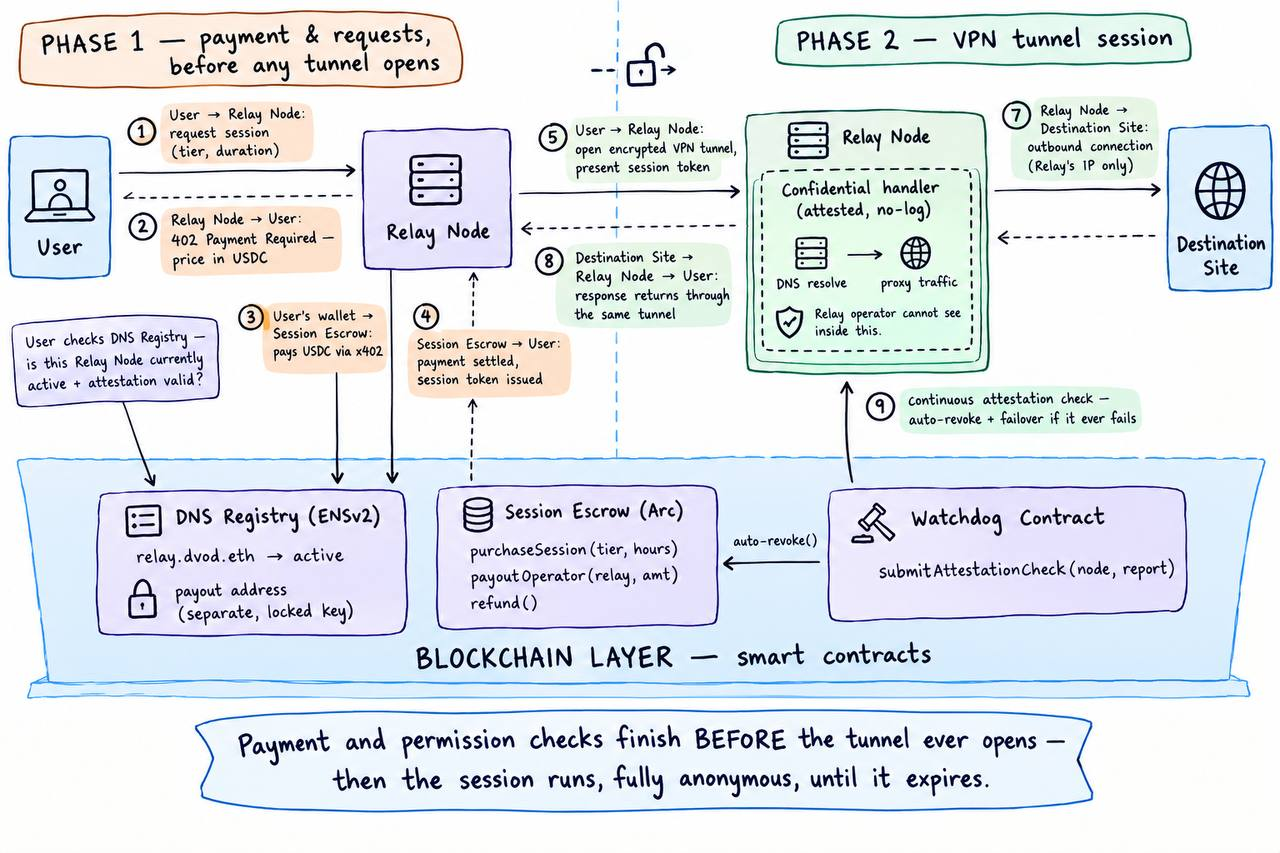
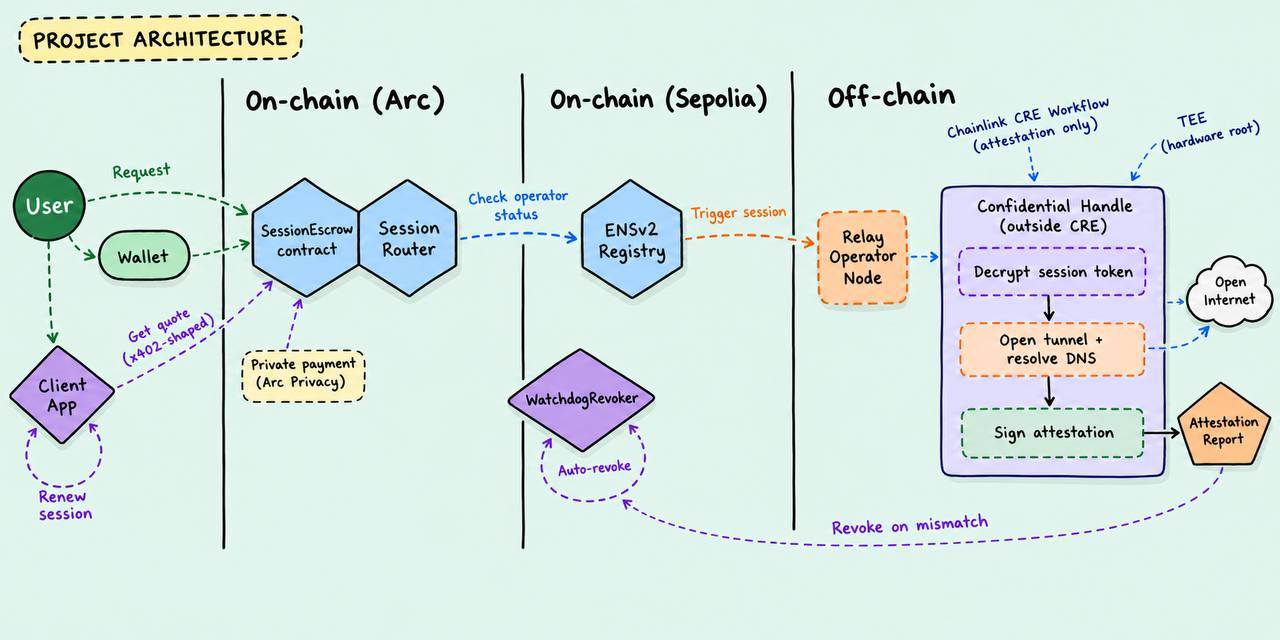
docs: swap in target-design diagram as primary architecture image, honesty pass on labels
- docs/architecture.jpg now shows the target/vision design (in-image "TARGET DESIGN -
  IN PROGRESS" badge, x402-shaped quote + planned private-payment annotations,
  confidential handler outside CRE)
- old real-architecture diagram renamed docs/architecture-2.jpg, kept as "Current
  implementation" section further down
- README: reworded headings so each image's caption matches what it actually shows
  (target vs. current), replaced "SIMULATED" badge language for tunnel-server with
  "runs standalone (outside CRE)", added "Coming next - private payments" section
- docs/chainlink-cre-findings.md: same SIMULATED-badge wording cleanup

Claude-Session: https://claude.ai/code/session_01ApFvDPM8JrR3ht8kJwvgdL

diff --git a/README.md b/README.md
@@ -15,25 +15,31 @@ the two.
 
 ## Architecture
 
-![DVoD architecture](docs/architecture.jpg)
+### Target design (in progress - target: before submission)
 
-Payment and permission checks (ENSv2 registry lookup, attestation check, x402 purchase
-on Arc) all complete **before** any tunnel opens. Once open, the session runs fully
-anonymous - DNS + proxy traffic inside the relay's attested confidential handler - until
-it expires or the watchdog contract revokes the relay.
-
-### Target architecture (not yet built)
-
-![DVoD target architecture](docs/target-architecture.jpg)
+![DVoD target architecture](docs/architecture.jpg)
 
 This is the fuller target design - useful for seeing where the pieces are meant to go,
-but it draws two things that don't exist yet: a separate on-chain "Session Router"
-(we only have `SessionEscrow.sol`), and the Chainlink CRE confidential handler actually
-decrypting tokens, opening tunnels, and resolving DNS. `docs/chainlink-cre-findings.md`
-covers why that last part is a real platform-shape mismatch (CRE workflows are
-event-driven and stateless, not a place to run a persistent proxy/DNS server), not
-just unbuilt. Treat this diagram as intent, and the one above plus `docs/SECURITY.md`
-as what's actually there.
+but it draws things that don't exist yet: a separate on-chain "Session Router" (we only
+have `SessionEscrow.sol`), the confidential handler actually decrypting tokens, opening
+tunnels, and resolving DNS, and private/x402-settled payment. `docs/chainlink-cre-findings.md`
+covers why the confidential-handler part can't run as a Chainlink CRE workflow itself
+(CRE workflows are event-driven and stateless, not a place to run a persistent
+proxy/DNS server) - closing that gap means real confidential compute running outside
+CRE, not CRE running longer. Treat this diagram as intent; the one below plus
+`docs/SECURITY.md` is what's actually there today.
+
+### Current implementation - what's actually running today
+
+![DVoD architecture](docs/architecture-2.jpg)
+
+Payment and permission checks (ENSv2 registry lookup, attestation check, x402-shaped
+purchase on Arc) all complete **before** any tunnel opens. Once open, the session runs
+fully anonymous - DNS + proxy traffic through the relay's tunnel-server - until it
+expires or the watchdog contract revokes the relay. Payment is a plain, public
+`purchaseSession` transaction (not private, not x402-settled - see "Coming next" below)
+and the tunnel-server runs as a standalone process, not inside a confidential handler
+yet.
 
 ## Status
 
@@ -66,6 +72,39 @@ over the deployed site's own WebSocket connection with no page reload.
 state → revocation/failover) is real, end to end, live. It does not mean user traffic
 is actually tunneled anywhere yet - see `docs/SECURITY.md`'s scope note for exactly
 what's real vs. not in the data plane.
+
+## Pricing model — pay-as-you-go, not a subscription
+
+There's no account, no card on file, and no recurring charge. Every session is a
+one-off purchase: pick a tier, pick how many hours (1-24), pay exactly
+`rate(tier) * hours` in USDC up front, get a time-boxed session that expires on its
+own. See [`docs/PRICING.md`](docs/PRICING.md) for the full rate card and where the
+payment actually goes; the honesty notes there (illustrative flat rate, no
+protocol fee yet, admin-only refunds) are worth reading before quoting a number.
+
+| Tier | Reserved throughput | Rate |
+|---|---|---|
+| Lite | 5 Mbps | $0.10/hr |
+| Standard | 25 Mbps | $0.35/hr |
+| Turbo | 100 Mbps | $1.00/hr |
+
+**Note on x402:** the quote step (`GET /tiers`, `POST /sessions/:tier/:hours`) follows
+x402's request-a-price-then-pay shape, but the payment itself is a direct
+`purchaseSession` call, not real x402 settlement - Arc's USDC is a native gas token,
+not an ERC-20, so none of `@x402/evm`'s existing schemes apply. See Phase 2's
+architecture note below for the full investigation.
+
+### Coming next - private payments
+
+Every `purchaseSession` payment today is a plain, public transaction: amount, tier,
+and wallet are all visible on-chain. Arc has announced a native confidential-
+transactions feature ("Arc Privacy" - encrypt a standard EVM transaction, submit
+the ciphertext as calldata to a privacy precompile) that would fit
+`purchaseSession(tier, hours)` without a redesign - but per Arc's own docs
+(`docs.arc.io/arc/concepts/opt-in-privacy`), it isn't available yet. Wiring it in,
+along with a genuine `@x402/core` custom settlement scheme once the constraints
+documented above are workable, is next up once both ship. See `docs/SECURITY.md`
+for the current honest scope.
 
 ## Build phases
 
@@ -139,8 +178,8 @@ platform-shape mismatch the brief itself didn't anticipate this sharply. So:
 
 - `relay/handler_cre/tunnel-server` is a **real, working HTTP CONNECT proxy** - real
   DNS resolution, real bidirectional proxying, verified with an actual live fetch of
-  `https://example.com` through it - running in a plain process with a visible
-  **SIMULATED** badge (`GET /health`), because CRE can't run it.
+  `https://example.com` through it - running standalone as a plain process
+  (`GET /health` reports this), because CRE can't run it.
 - `relay/handler_cre/attestation-refresher` is a **real Chainlink CRE workflow**
   (Chainlink's own `keeper-bot-ts` template, adapted), genuinely executed via the
   real CRE CLI: compiled to actual WASM, read live Sepolia state, produced a
@@ -201,7 +240,7 @@ platform-shape mismatch the brief itself didn't anticipate this sharply. So:
 ```
 /apps            web app + orchestrator service
 /packages        session-spec, ui, chain-adapters, identity
-/relay/handler_cre/tunnel-server         real, SIMULATED-labeled tunnel/DNS/proxy
+/relay/handler_cre/tunnel-server         real tunnel/DNS/proxy, runs standalone (outside CRE)
 /relay/handler_cre/attestation-refresher real Chainlink CRE workflow (Bun/CRE CLI project)
 /contracts       SessionEscrow.sol (Arc), WatchdogRevoker.sol + AttestationRefresherReceiver.sol (ENS)
 /docs            architecture diagram, security/pricing docs, demo script

diff --git a/docs/chainlink-cre-findings.md b/docs/chainlink-cre-findings.md
@@ -21,8 +21,8 @@ runs inside a Chainlink CRE confidential handler." Verified directly against
 
 **Conclusion: CRE cannot run a tunnel-termination + DNS + outbound-proxy server -
 categorically, not just "not in the time available."** This is why
-`relay/handler_cre/tunnel-server` is a plain process with a visible SIMULATED badge,
-not a CRE workflow.
+`relay/handler_cre/tunnel-server` runs standalone as a plain process (`GET /health`
+reports this), not a CRE workflow.
 
 ## What we built instead - a real, narrow, honest use of CRE
 
@@ -82,7 +82,7 @@ successfully - see above.
 ### Still a STUB, honestly
 
 The hash being written isn't from a real relay binary - `relay/handler_cre/
-tunnel-server` (the simulated tunnel/DNS/proxy process) either doesn't exist yet or,
+tunnel-server` (the standalone tunnel/DNS/proxy process) either doesn't exist yet or,
 once it does, isn't yet wired to produce a real build manifest for this workflow to
 hash. The workflow computes a placeholder hash from its own config. What's real is
 the pipeline (CRE execution → signed report → on-chain write); what's not yet real is
